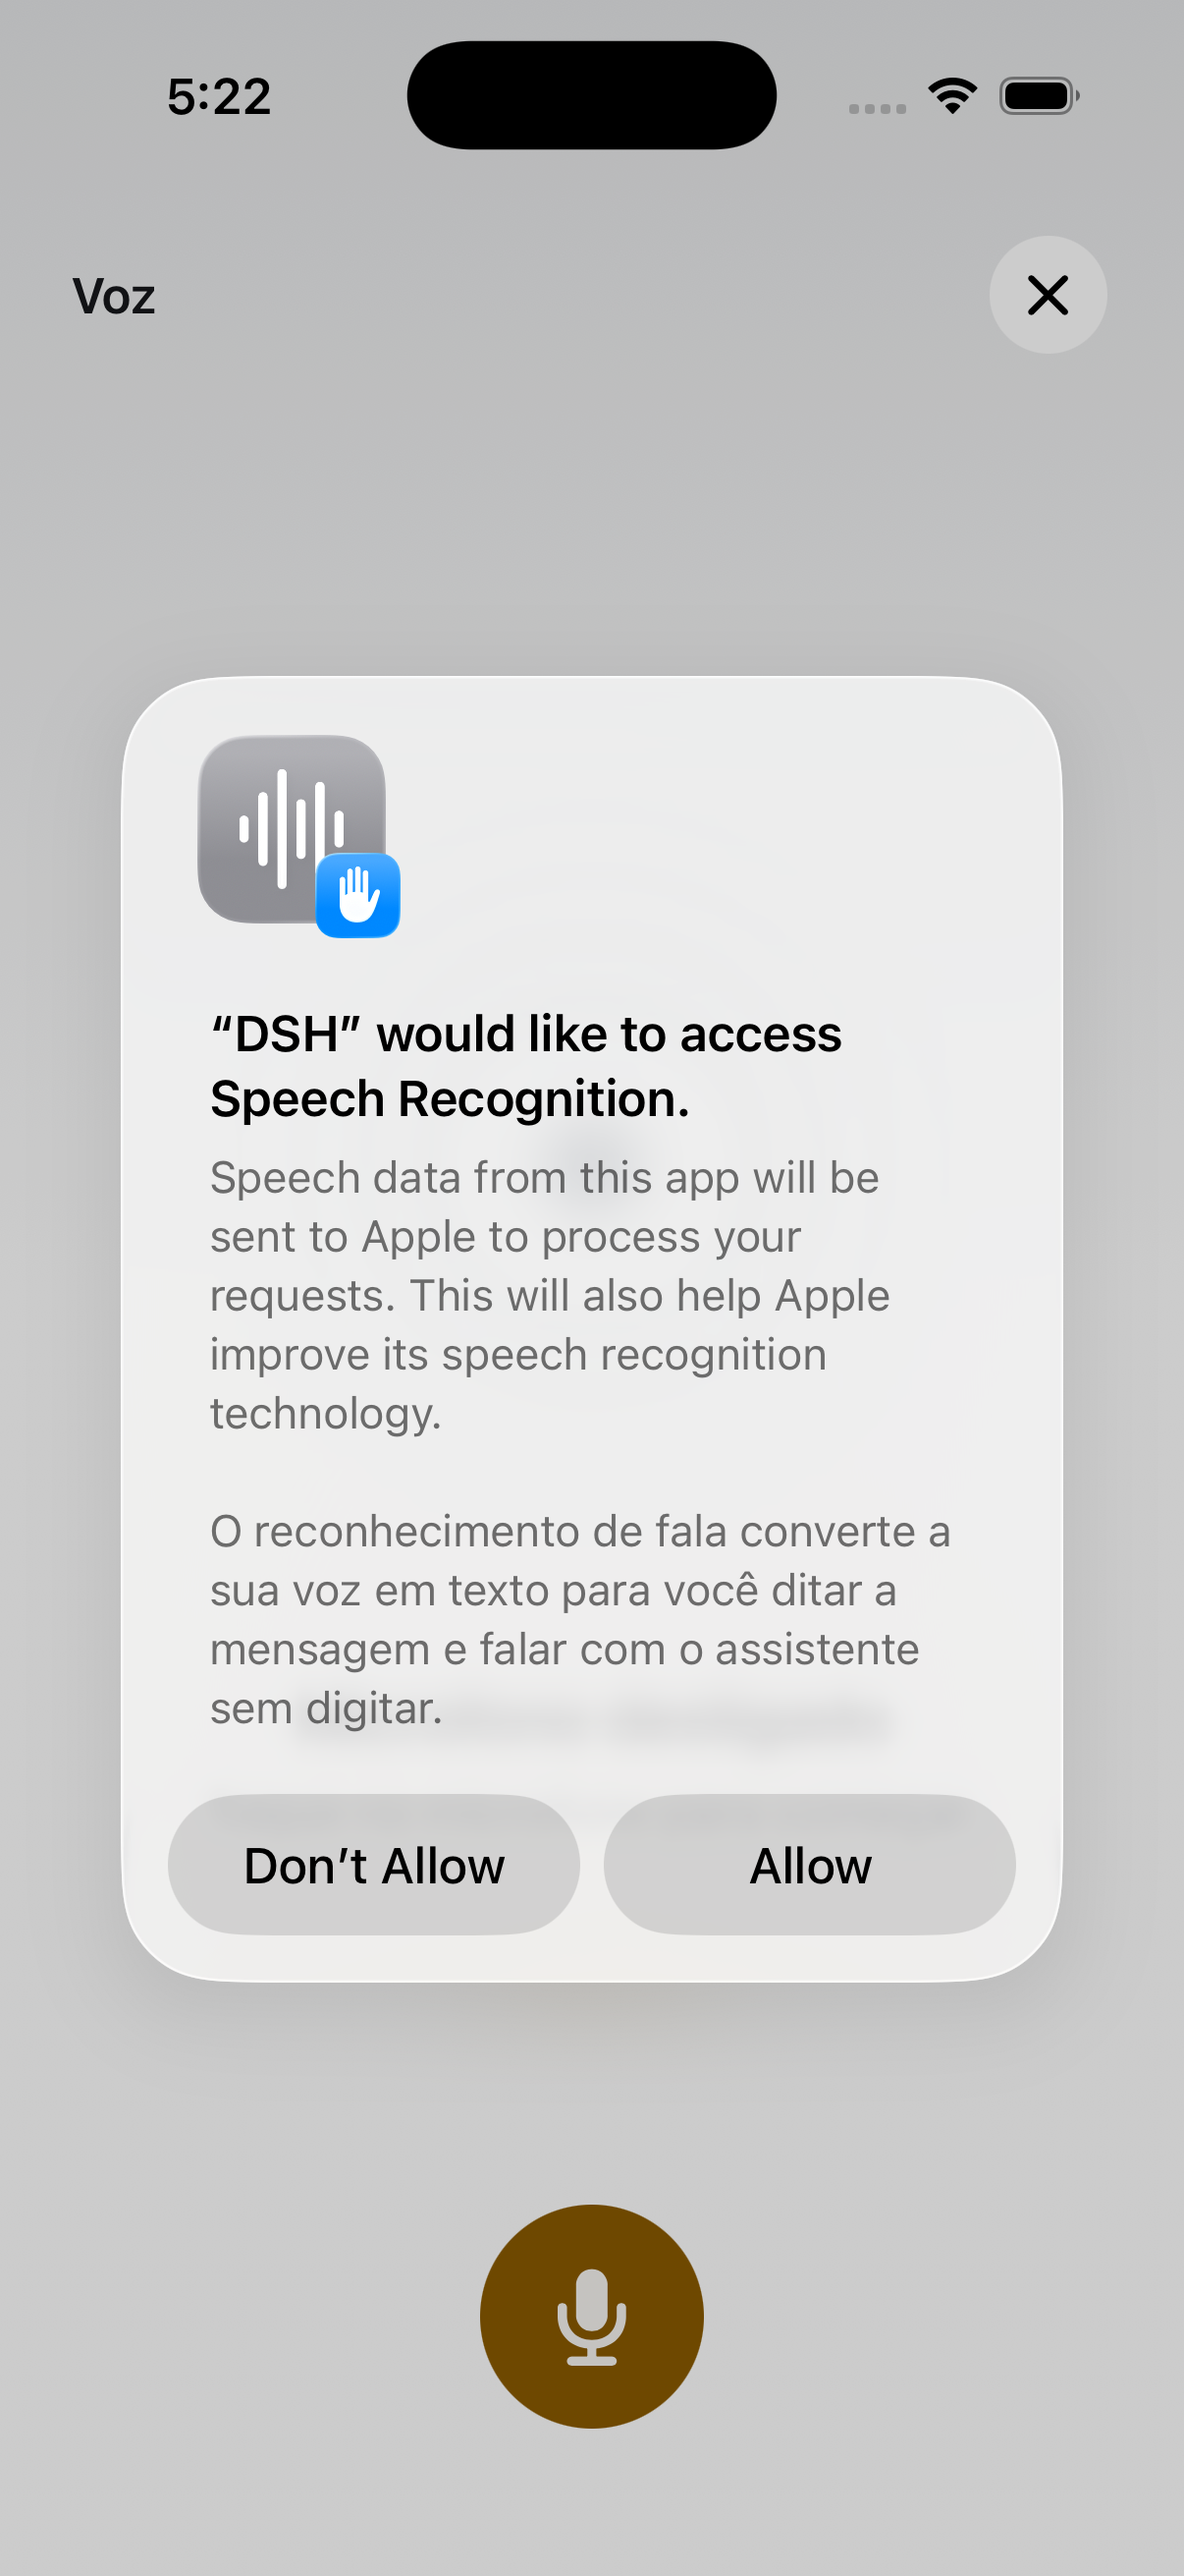
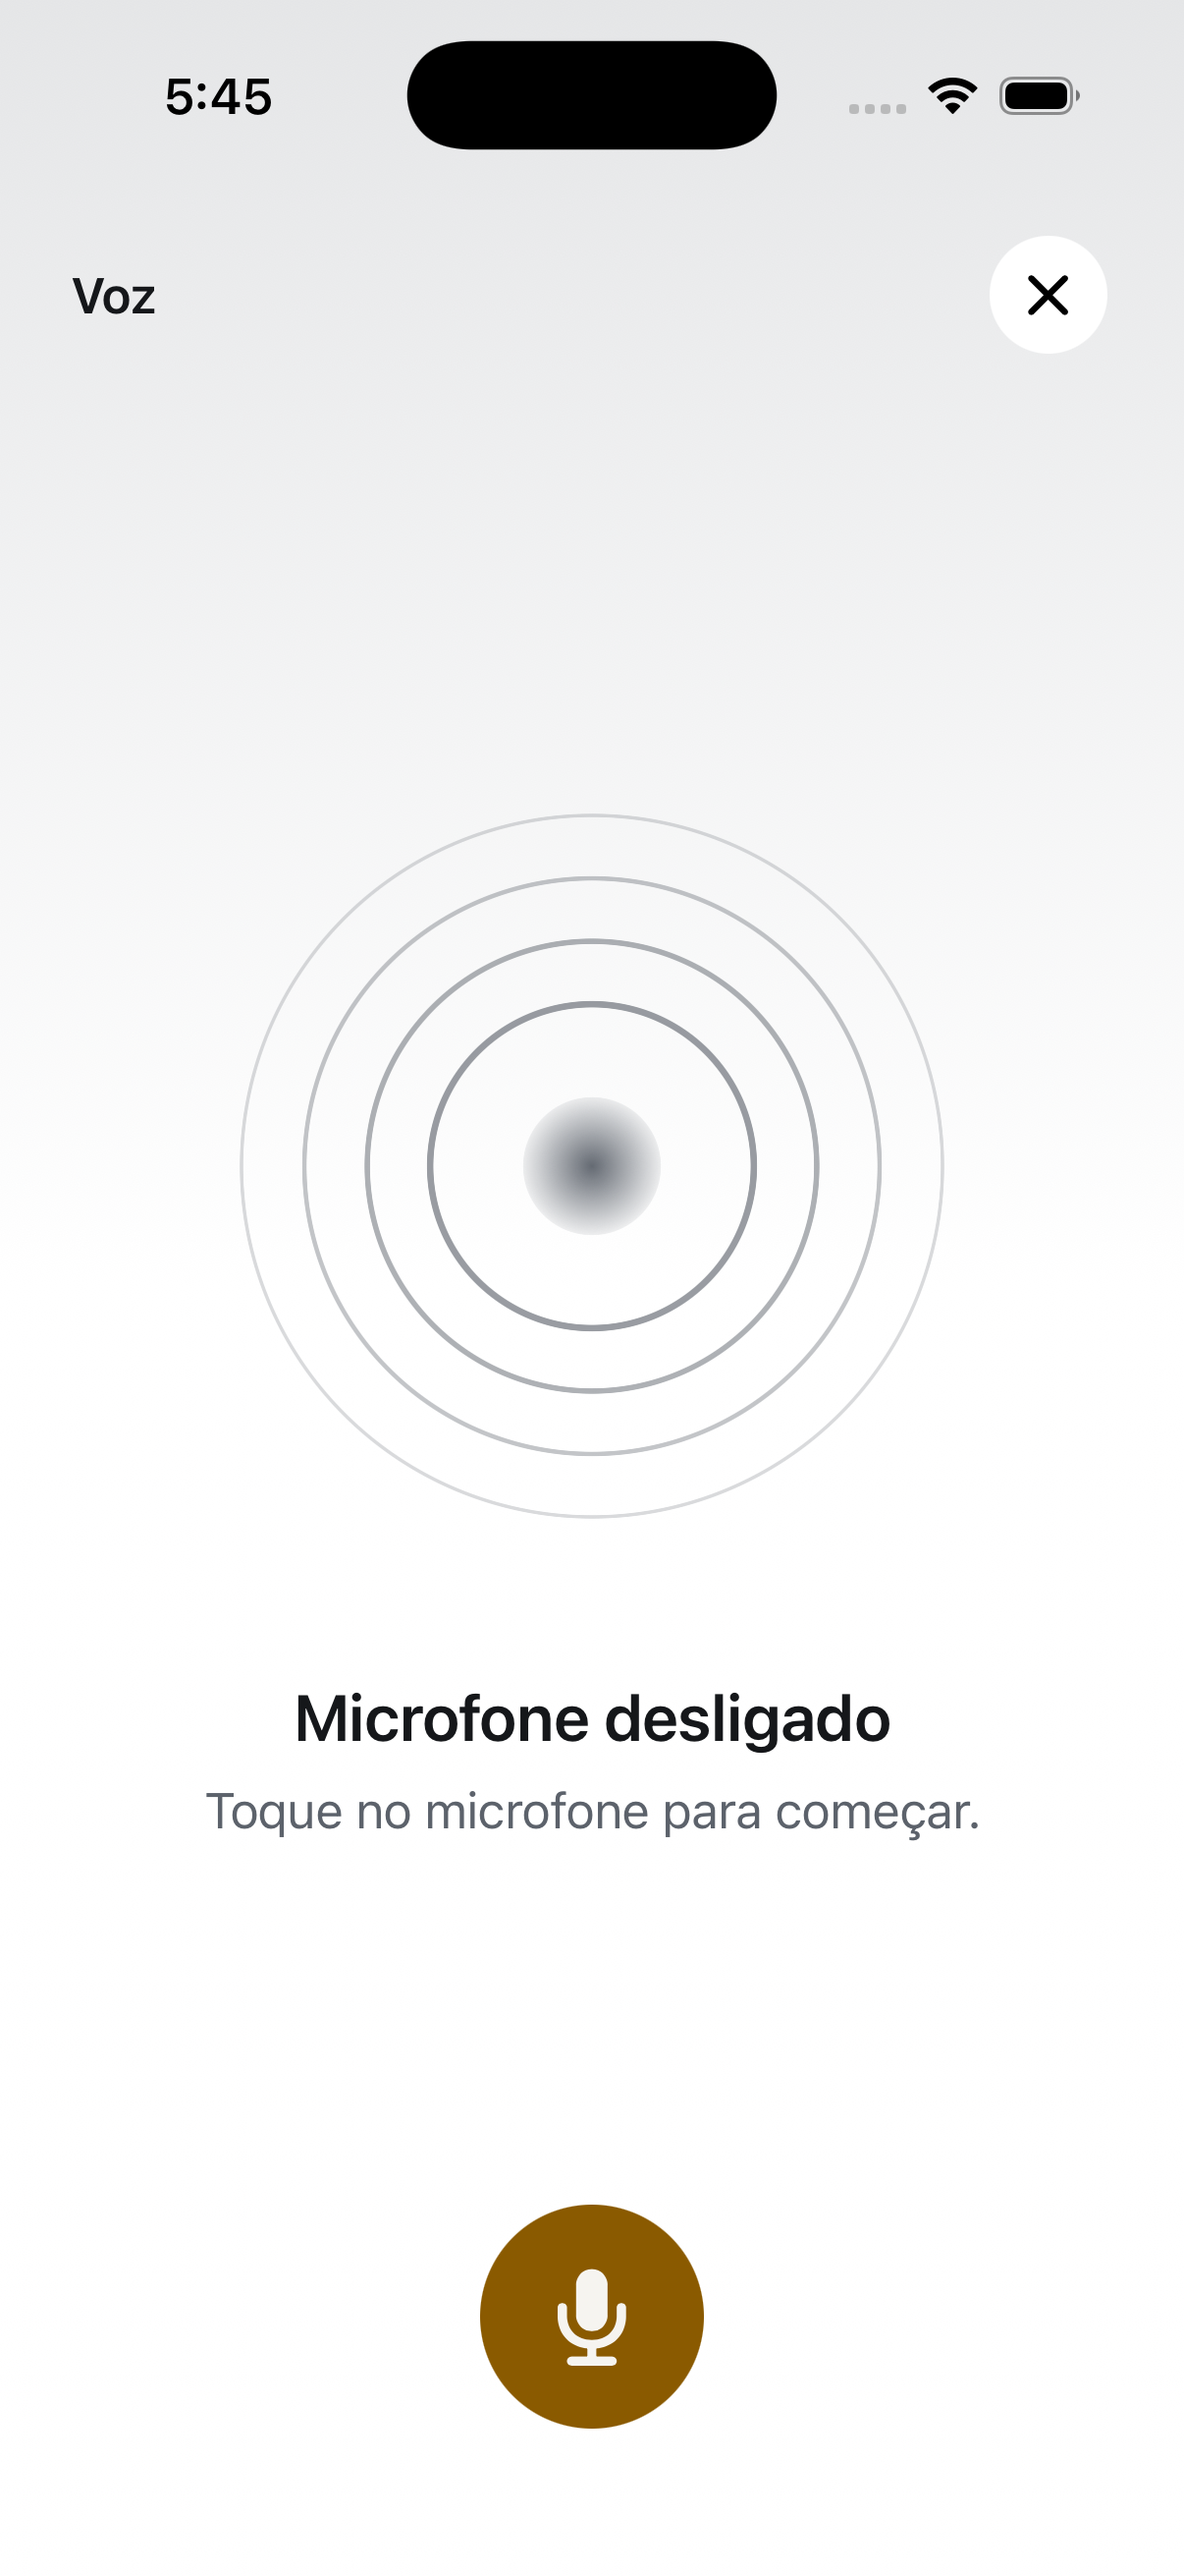
Rodada 45554933068 nos numeros da entrega e capturas novas
- ENTREGA 10: dois pacotes medidos, pacote livre com zero PlugIns, binario de 3.108.192 bytes
- ENTREGA 11: saida dos itens de anexo e voz, entram remocao de anexo e instalacao em aparelho
- capturas novas das cinco rotas, com a tela de voz no estado ocioso
- README: explica a escolha entre DSH-livre.ipa e DSH.ipa

diff --git a/docs/ENTREGA.md b/docs/ENTREGA.md
@@ -218,30 +218,32 @@ Duas consequências práticas:
 
 ## 10. O que a última rodada do CI prova
 
-A rodada `45552109815` rodou sobre o commit `5f28a33` e terminou com os dois jobs em `success`,
+A rodada `45554933068` rodou sobre o commit `6b2803e` e terminou com os dois jobs em `success`,
 passo por passo. Os números abaixo saíram do artefato baixado e aberto aqui, não do log do
 Actions.
 
 | o que | como foi medido | resultado |
 |---|---|---|
 | job `simulador` | compilar, instalar no iPhone 16 do simulador e capturar as cinco rotas | `success`, 5 capturas de 1206x2622 |
-| widget e extensão de compartilhar | passo próprio, `xcodebuild -target DSHWidget` e `-target DSHCompartilhar` | `success`, os dois alvos compilam; antes desta rodada eles não eram compilados por ninguém |
-| job `ipa` | compilar para aparelho sem assinatura e empacotar | `success`, `DSH.ipa` com 815.850 bytes |
-| binário | `Payload/DSH.app/DSH` dentro do IPA | 3.084.832 bytes |
+| widget e extensão de compartilhar | passo próprio, `xcodebuild -target DSHWidget` e `-target DSHCompartilhar` | `success`, os dois alvos compilam |
+| job `ipa` | compilar para aparelho sem assinatura e empacotar os dois pacotes | `success`, `DSH.ipa` com 821.846 bytes e `DSH-livre.ipa` com 764.148 bytes |
+| pacote livre | listar as entradas do `.ipa` com `zipfile` | 15 entradas e **zero** com `PlugIns`: o pacote é só `Payload/DSH.app` |
+| pacote completo | mesma listagem | `DSHWidget.appex` e `DSHCompartilhar.appex` dentro de `Payload/DSH.app/PlugIns/` |
+| binário | `Payload/DSH.app/DSH` dentro do IPA | 3.108.192 bytes |
 | catálogo de ícones | `Payload/DSH.app/Assets.car` | 32.735 bytes, ou seja, o catálogo compilou e não saiu vazio |
 | ícones derivados | PNGs dentro do pacote | `AppIcon60x60@2x.png` com 2.861 bytes e `AppIcon76x76@2x~ipad.png` com 3.500 bytes |
-| `Info.plist` do pacote | lido com `plistlib` | `dev.ramses.dsh`, versão `1.0.0` (build `1`), `MinimumOSVersion` 18.0, `DTXcode` 1640, `DTPlatformVersion` 18.5 |
+| `Info.plist` do pacote | lido com `plistlib` | `dev.ramses.dsh`, versão `1.0.0` (build `1`), `MinimumOSVersion` 18.0, `DTXcode` 1640, `DTPlatformVersion` 18.5, `Info.plist` com 3.213 bytes |
 | ícone ligado ao alvo | `CFBundleIconName` e `CFBundlePrimaryIcon` | `AppIcon`, com `CFBundleIconFiles = [AppIcon60x60]` |
 
 O que cada captura mostra, com o tamanho do arquivo:
 
 | captura | bytes | o que está na tela |
 |---|---|---|
-| `conversa.png` | 292.523 | o fim de uma resposta, com o bloco de código e dois cartões de artefato: "Relógio de parede" (HTML) e "Relógio em SVG" (SVG) |
-| `artefato.png` | 662.544 | o visualizador do artefato HTML rodando o relógio dentro do `WKWebView`, com o ponteiro na hora do relógio do simulador, e o seletor entre Visualização e Código |
-| `ajustes.png` | 303.843 | a folha de Ajustes, com o seletor de motor, o cofre da DeepSeek, o endereço e o token da ponte, e as ações de salvar e apagar |
-| `dsh.png` | 154.230 | a folha de sessões aberta pela rota `dsh`, no estado sem ponte configurada, que é o estado de fábrica do simulador |
-| `voz.png` | 750.103 | a tela de voz com o botão de gravação |
+| `conversa.png` | 292.172 | o fim de uma resposta, com o bloco de código e dois cartões de artefato: "Relógio de parede" (HTML) e "Relógio em SVG" (SVG) |
+| `artefato.png` | 655.115 | o visualizador do artefato HTML rodando o relógio dentro do `WKWebView`, com o ponteiro na hora do relógio do simulador, e o seletor entre Visualização e Código |
+| `ajustes.png` | 303.492 | a folha de Ajustes, com o seletor de motor, o cofre da DeepSeek, o endereço e o token da ponte, e as ações de salvar e apagar |
+| `dsh.png` | 153.901 | a folha de sessões aberta pela rota `dsh`, no estado sem ponte configurada, que é o estado de fábrica do simulador |
+| `voz.png` | 642.677 | a tela de voz no estado ocioso, "Microfone desligado", que é o padrão com a voz automática desligada |
 
 As cinco capturas estão versionadas em `docs/capturas/`, tiradas desta rodada, para não
 depender de baixar artefato do Actions para olhar a tela:
@@ -260,9 +262,14 @@ O que a rodada **não** prova, para não dar a ela mais peso do que tem:
   tocar em botão. Salvar chave, testar conexão e enviar pela ponte continuam verificados só por
   leitura de código;
 - a voz capturada é a tela, não o resultado de um reconhecimento: o microfone do simulador é
-  permissão dada pelo `simctl`, sem áudio real;
+  permissão dada pelo `simctl`, sem áudio real. O que `voz.png` prova é só o estado ocioso, que
+  é o esperado com a preferência de voz automática desligada, o padrão de fábrica;
+- o cartão de anexo não aparece em captura nenhuma, porque a conversa de demonstração não tem
+  anexo: a troca na bolha está provada pela compilação e pela leitura do código;
 - o widget e a extensão de compartilhar compilam, mas não são executados: o simulador roda só o
   app principal, e o App Group que liga os três exige conta paga do programa de desenvolvedor;
+- o `DSH-livre.ipa` foi medido por dentro, com `zipfile`, mas nunca assinado nem instalado: a
+  prova de que ele instala com conta gratuita depende do aparelho, no passo da seção 5;
 - as capturas são do modo claro do simulador; o modo escuro não é fotografado.
 
 ## 11. O que fica aberto
@@ -272,13 +279,13 @@ cada um é uma promessa que o app ainda não cumpre.
 
 | o que | estado | por que não foi feito |
 |---|---|---|
-| anexo na conversa | a mensagem mostra o ícone e o nome do arquivo, não a miniatura | existe `CartaoDeAnexo` pronto em `Fontes/Artefatos`, e a bolha ainda usa a lista de nomes |
 | validar a chave da DeepSeek em Ajustes | só confere o prefixo `sk-` | a API não tem rota de validação de chave, e inventar uma custaria uma chamada paga a cada toque |
-| voz automática | a preferência é gravada, mas a tela de voz não a lê | a tela ainda tem botão de gravar e parar manual |
 | bloco de código muito longo | cresce sem limite dentro da bolha | cortar com "mostrar mais" mexe no `TextoRico`, e a conversa de demonstração já usa o limite como prova de rolagem |
 | primeiro quadro da resposta ao vivo | o recuo pendente aparece a partir do segundo quadro | o streaming chega em pedaços e o primeiro é renderizado antes de haver linha completa |
 | criar sessão pela ponte | `POST /v1/sessoes` e `/mensagem` foram verificados só por leitura de código | a rodada do CI não tem tailnet, então não há como exercitar a ponte de dentro do simulador |
 | folha do artefato durante a resposta | pode fechar sozinha quando o texto ao vivo vira mensagem gravada | a bolha ao vivo é substituída no fim do stream, e com ela o estado que segurava a folha |
-| widget e compartilhamento no iPhone | exigem conta paga do programa de desenvolvedor | os dois alvos usam App Group, que a conta gratuita não libera; com conta gratuita, só o app principal instala |
+| widget e compartilhamento no iPhone | exigem conta paga do programa de desenvolvedor | os dois alvos usam App Group, que a conta gratuita não libera; com conta gratuita, o pacote que instala é o `DSH-livre.ipa`, sem as extensões |
+| remover anexo no transcrito | a bolha desenha o cartão sem a ação de remover | anexo já enviado não sai da conversa, e o parâmetro `aoRemover` do cartão fica reservado à barra de entrada, que ainda usa as etiquetas dela |
+| instalação em iPhone físico | nenhuma rodada chegou a um aparelho real | depende da conta Apple do dono do aparelho, do cabo e do Modo de Desenvolvedor; o passo a passo está na seção 5 |
 
 

diff --git a/README.md b/README.md
@@ -21,8 +21,12 @@ sem sessão não há para onde mandar a pergunta.
 - A rodada compila o app, o widget e a extensão de compartilhar, roda no simulador e captura as
   cinco rotas. As capturas ficam em [docs/capturas](docs/capturas).
 - A saída principal é um IPA **sem assinatura**: o iPhone não instala o arquivo sozinho, ele
-  precisa ser assinado com a sua conta Apple antes. Conta gratuita serve, com os limites que a
-  entrega descreve (3 apps por semana, re-assinar a cada 7 dias, sem App Group).
+  precisa ser assinado com a sua conta Apple antes. O `ipa` traz dois pacotes:
+  `DSH-livre.ipa`, só o app principal, que é o que se instala com conta Apple gratuita, e
+  `DSH.ipa`, com o widget e a extensão de compartilhar, que só assina em conta paga.
+- Conta gratuita serve, com os limites que a entrega descreve (3 apps por semana, re-assinar a
+  cada 7 dias, sem App Group), e o passo a passo de Sideloadly e de AltStore está em
+  [docs/ENTREGA.md](docs/ENTREGA.md), seção 5.
 - Nada foi testado em iPhone físico: o que está provado é compilação, empacotamento e execução
   no simulador.
 
